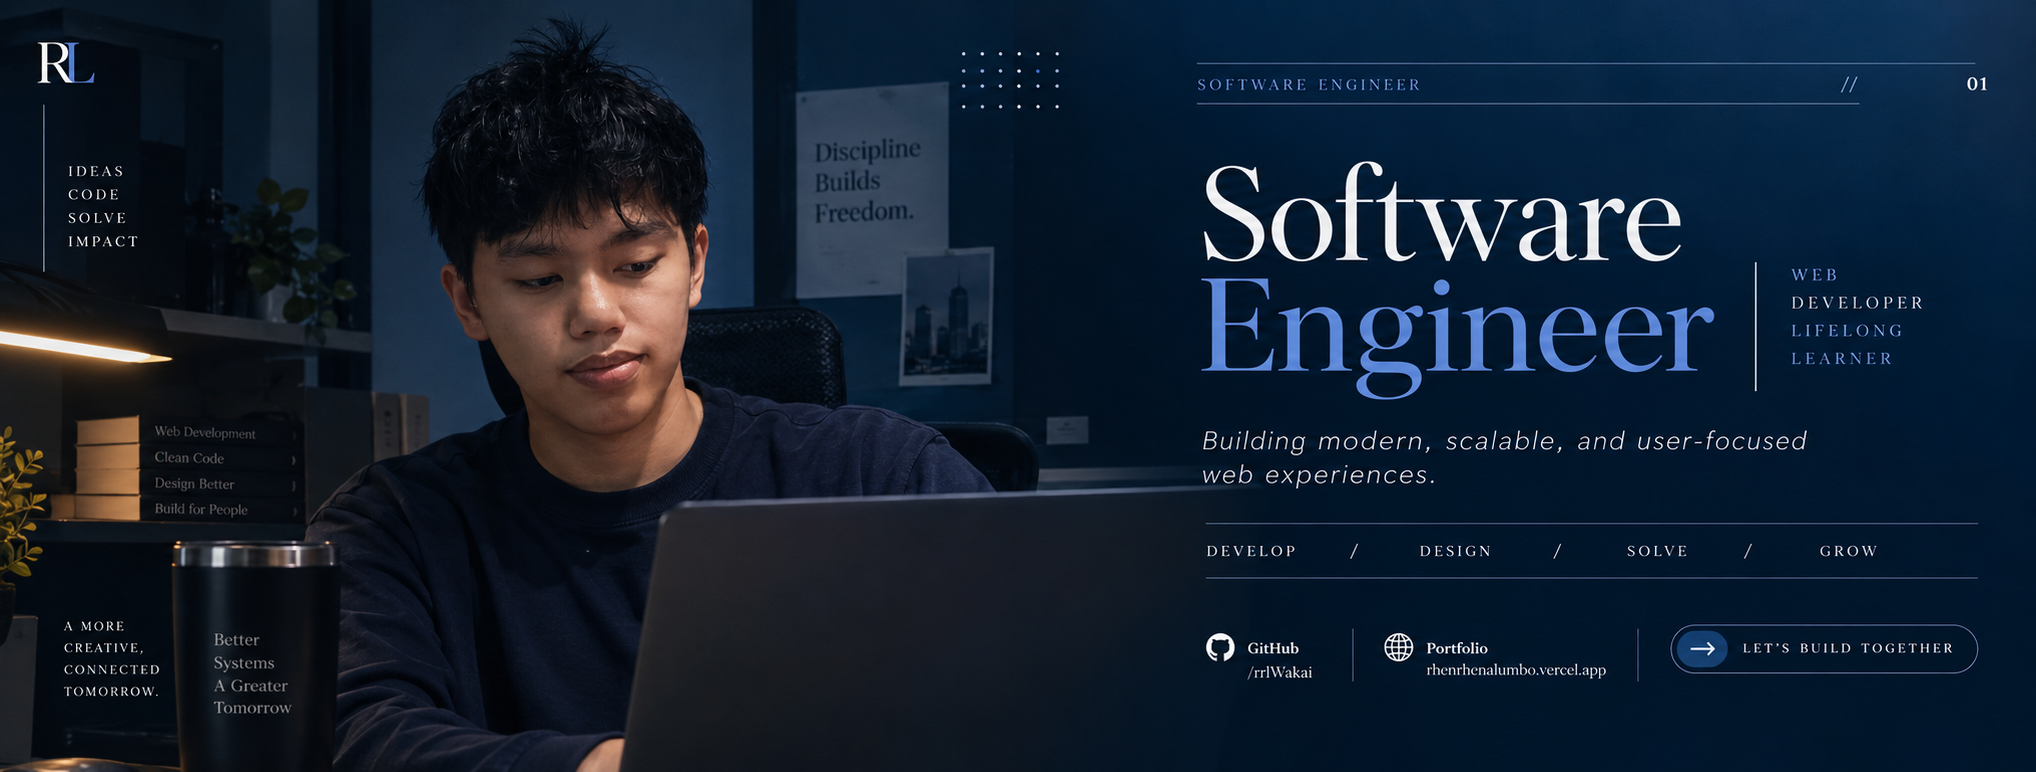
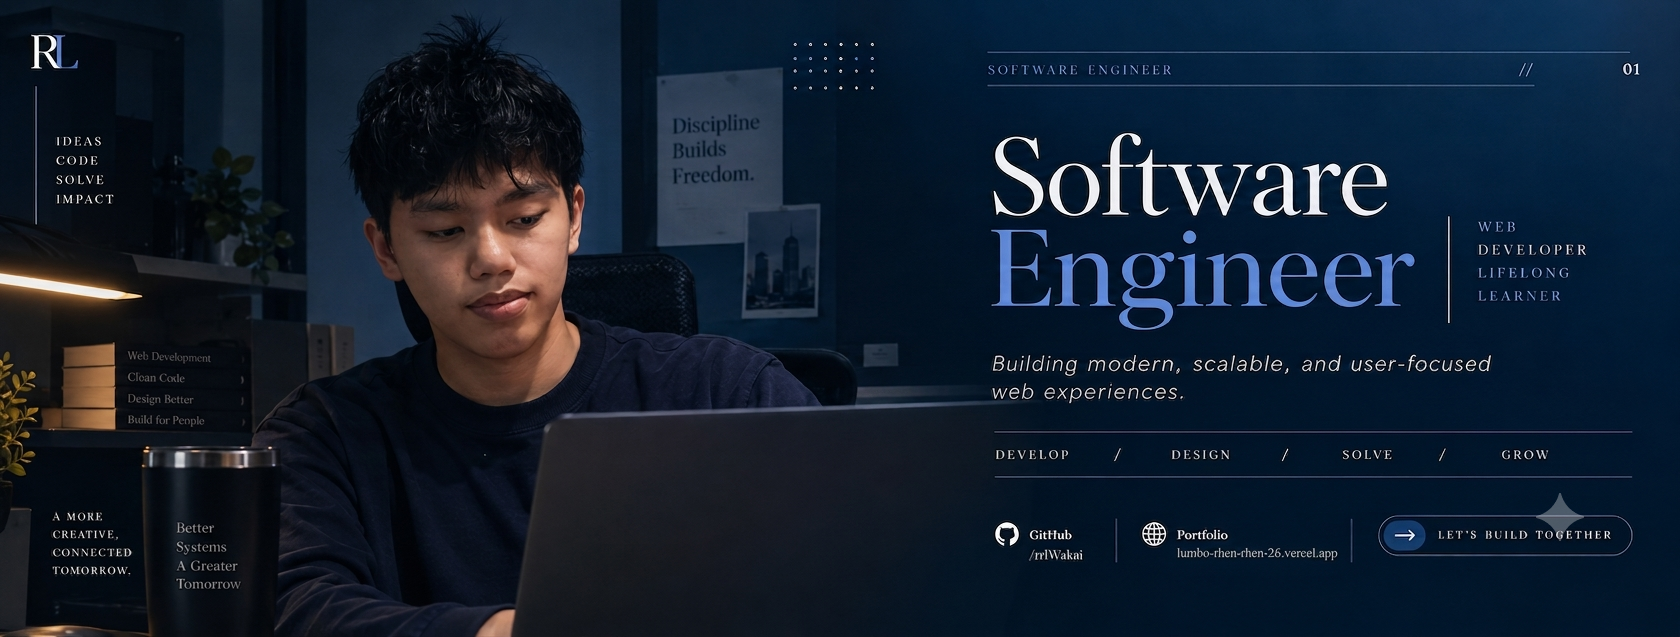
FSA

diff --git a/src/sections/ResumeHeader.tsx b/src/sections/ResumeHeader.tsx
@@ -2,8 +2,6 @@ import { useState, useEffect, useCallback } from 'react'
 import { site } from '../data/site'
 import { useTheme } from '../hooks/useTheme'
 
-const COVER_SRC = '/coverr.png'
-
 function SunIcon() {
   return (
     <svg width="14" height="14" viewBox="0 0 24 24" fill="none" stroke="currentColor" strokeWidth="2" strokeLinecap="round" strokeLinejoin="round">
@@ -54,9 +52,17 @@ function ResumeHeader() {
       {/* Full-bleed cover banner */}
       <div className="lh-cover" onClick={() => setLightboxOpen(true)}>
         <img
-          src={COVER_SRC}
-          alt="Cover banner"
+          src="/coverr.png"
+          alt={isDark ? 'Cover banner' : ''}
+          aria-hidden={!isDark}
           className="lh-cover-img"
+          draggable={false}
+        />
+        <img
+          src="/covermor.png"
+          alt={isDark ? '' : 'Cover banner'}
+          aria-hidden={isDark}
+          className={`lh-cover-img lh-cover-img-light${!isDark ? ' is-active' : ''}`}
           draggable={false}
         />
         <button
@@ -89,7 +95,7 @@ function ResumeHeader() {
             ✕
           </button>
           <img
-            src={COVER_SRC}
+            src={isDark ? '/coverr.png' : '/covermor.png'}
             alt="Cover banner full size"
             className="cover-lightbox-img"
             onClick={(e) => e.stopPropagation()}
@@ -102,9 +108,17 @@ function ResumeHeader() {
         {/* Avatar — overlaps the cover seam via negative margin */}
         <div className="lh-avatar anim-avatar">
           <img
+            src="/morning.png"
+            alt={isDark ? '' : site.name}
+            aria-hidden={isDark}
+            className={`lh-avatar-img${!isDark ? ' is-active' : ''}`}
+            draggable={false}
+          />
+          <img
             src="/profile.png"
-            alt={site.name}
-            className="lh-avatar-img"
+            alt={isDark ? site.name : ''}
+            aria-hidden={!isDark}
+            className={`lh-avatar-img${isDark ? ' is-active' : ''}`}
             draggable={false}
           />
         </div>

diff --git a/src/App.css b/src/App.css
@@ -19,6 +19,11 @@
     opacity: 1 !important;
     transform: none !important;
   }
+
+  .lh-avatar-img,
+  .lh-cover-img {
+    transition: none !important;
+  }
 }
 
 /* ═══════════════════════════════════════
@@ -42,11 +47,22 @@
 }
 
 .lh-cover-img {
+  position: absolute;
+  inset: 0;
   width: 100%;
   height: 100%;
   object-fit: cover;
   object-position: center;
   display: block;
+  transition: opacity 0.5s ease-in-out;
+}
+
+.lh-cover-img.is-active {
+  opacity: 1;
+}
+
+.lh-cover-img-light {
+  opacity: 0;
 }
 
 /* Subtle grid/schematic pattern — swappable via --cover-bg or background-image */
@@ -199,10 +215,18 @@
 }
 
 .lh-avatar-img {
+  position: absolute;
+  inset: 0;
   width: 100%;
   height: 100%;
   object-fit: cover;
   display: block;
+  opacity: 0;
+  transition: opacity 0.4s ease-in-out;
+}
+
+.lh-avatar-img.is-active {
+  opacity: 1;
 }
 
 .lh-avatar:hover {
